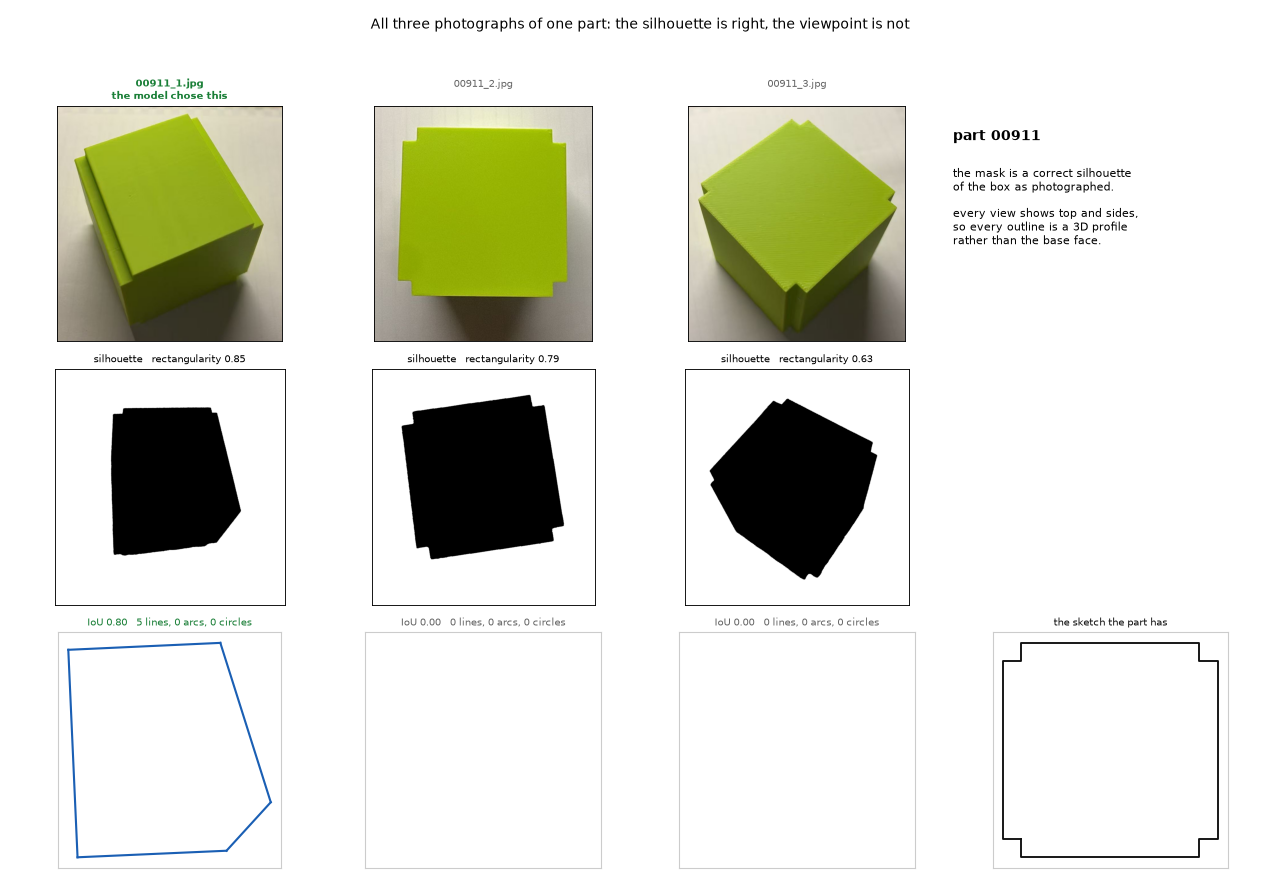
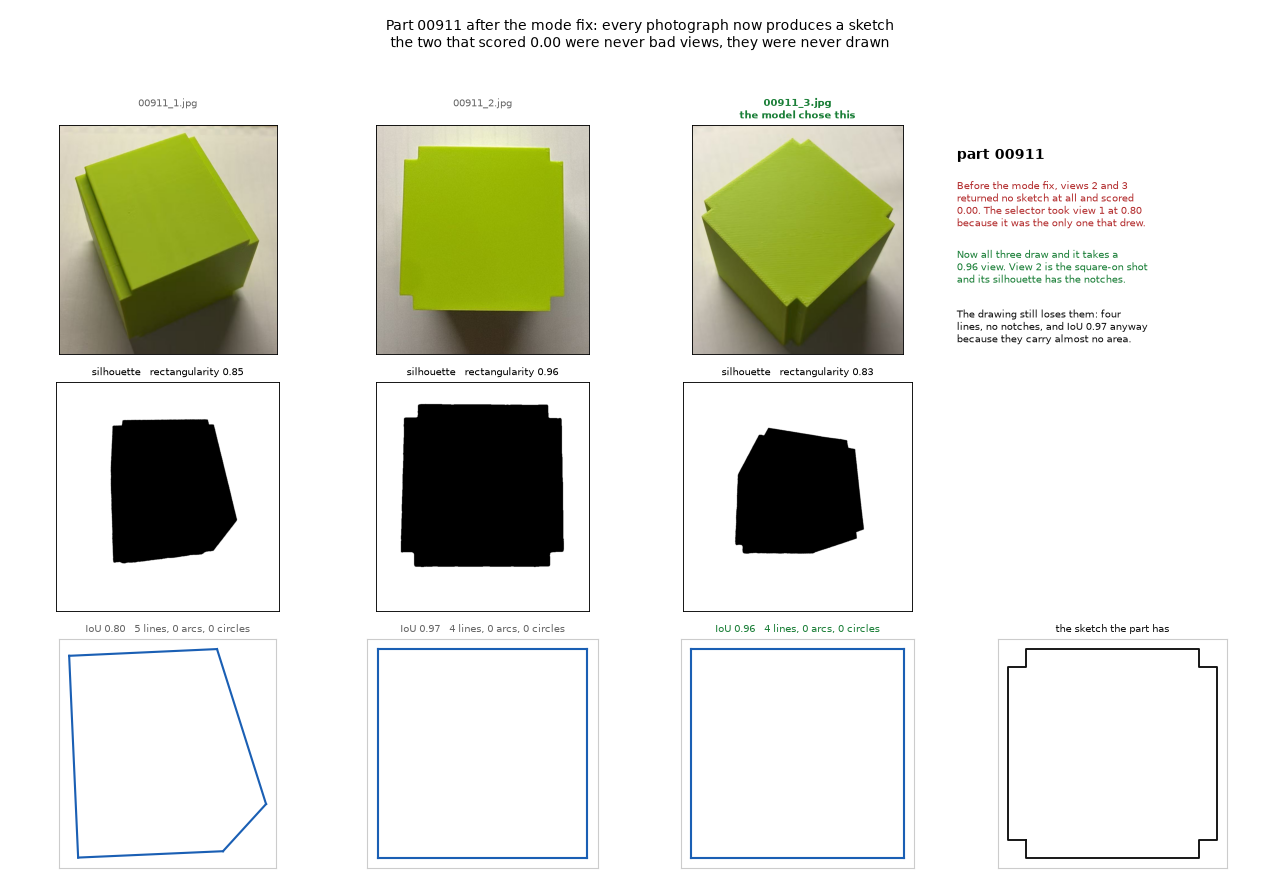
rectangularise is not what loses the notches; reverted the knobs
Part 00911's square-on photograph resolves its four corner notches and the drawing
is a plain square. rectangularise turns 8 elements into 4 there, so it looked
responsible.

Loosening it does not recover them: at fill 0.995 or a five-element cap, 00911 goes
from 4 elements to 6 against a truth of 12, and IoU falls from 0.959 to 0.933. The
tracer had already gone from 12 to 8 before the pass ran.

And the pass earns its place: over 235 discriminating parts, loosening it changes 8
of them, six for the worse, and costs 0.9 points of exact primitives for no IoU
gain. Turning a nearly-rectangular outline into an exact rectangle is right more
often than wrong.

The sweep also failed to include 00911 - it sits outside the 280 parts sampled - so
a threshold was measured on parts it barely touches. Testing the motivating part
directly is what settled it, and should have been the first step.

The deficit is upstream in corner detection: 9.43 elements against 11.88 and 1.49
curves against 5.13, which is the wall four earlier attempts already hit.

diff --git a/tools/ab_rect.py b/tools/ab_rect.py
@@ -1,0 +1,40 @@
+"""Where should rectangularise stop? It turns a notched square into a plain one."""
+import json, os, sys
+from multiprocessing import Pool
+
+import numpy as np
+
+ROOT = os.path.dirname(os.path.dirname(os.path.abspath(__file__)))
+sys.path.insert(0, os.path.join(ROOT, "src"))
+IDEAL = json.load(open(os.path.join(ROOT, "data", "printcad_ideal_sketches_all.json")))
+
+
+def one(part):
+    from photo2fcstd import analysis, bench, sketch_score as SS, spec as spec_mod
+    try:
+        views = [analysis.view(p) for p in bench.photos_of(part)[:3]]
+        doc = spec_mod.assemble(views, name=part, log=lambda *a: None)
+        s = SS.score_one(doc, IDEAL[part])
+        return part, {"iou": s["region_iou"], "trivial": s["trivial"],
+                      "exact": s["counts_mine"] == s["counts_ideal"],
+                      "n": sum(s["counts_mine"].values()), "ideal_n": sum(s["counts_ideal"].values()),
+                      "drew": bool(doc.get("outline") or doc.get("revolve"))}
+    except Exception as e:
+        return part, {"error": str(e)[:50]}
+
+
+def main(limit=280):
+    from photo2fcstd import bench, sketch_score as SS
+    parts = [p for p in sorted(IDEAL) if SS.trustworthy(IDEAL[p])]
+    parts = bench.with_photos(parts)[0][:limit]
+    with Pool(6) as pool:
+        out = dict(pool.map(one, parts))
+    tag = os.environ.get("P2F_TAG", "base")
+    json.dump(out, open(os.path.join(ROOT, "data", "ab_rect_%s.json" % tag), "w"))
+    ok = [v for v in out.values() if "iou" in v]
+    print("%s: %d parts, IoU %.3f, elements %.2f" % (tag, len(ok), np.mean([v["iou"] for v in ok]),
+                                                     np.mean([v["n"] for v in ok])))
+
+
+if __name__ == "__main__":
+    main()

diff --git a/tools/one_part_views.py b/tools/one_part_views.py
@@ -49,12 +49,20 @@ def main(part="00911"):
     ax[2, -1].axis("on")
     frame(ax[2, -1], "the sketch the part has")
     ax[0, -1].text(0.0, 0.9, "part %s" % part, fontsize=13, fontweight="bold", va="top")
-    ax[0, -1].text(0.0, 0.74,
-                   "the mask is a correct silhouette\nof the box as photographed.\n\n"
-                   "every view shows top and sides,\nso every outline is a 3D profile\n"
-                   "rather than the base face.",
-                   fontsize=9.5, va="top")
-    fig.suptitle("All three photographs of one part: the silhouette is right, the viewpoint is not",
+    ax[0, -1].text(0.0, 0.76,
+                   "Before the mode fix, views 2 and 3\nreturned no sketch at all and scored\n"
+                   "0.00. The selector took view 1 at 0.80\nbecause it was the only one that drew.",
+                   fontsize=9, va="top", color="#b32d2e")
+    ax[0, -1].text(0.0, 0.46,
+                   "Now all three draw and it takes a\n0.96 view. View 2 is the square-on shot\n"
+                   "and its silhouette has the notches.",
+                   fontsize=9, va="top", color="#1a7f37")
+    ax[0, -1].text(0.0, 0.20,
+                   "The drawing still loses them: four\nlines, no notches, and IoU 0.97 anyway\n"
+                   "because they carry almost no area.",
+                   fontsize=9, va="top", color="#111")
+    fig.suptitle("Part 00911 after the mode fix: every photograph now produces a sketch\n"
+                 "the two that scored 0.00 were never bad views, they were never drawn",
                  fontsize=12.5)
     plt.tight_layout(rect=(0, 0, 1, 0.955))
     out = os.path.join(ROOT, "docs", "figures", "one_part_views.png")

diff --git a/docs/results.md b/docs/results.md
@@ -983,6 +983,42 @@ model was trained on, -0.0012 [-0.010, +0.007], with identical agreement at 0.51
 misled the analysis and not the model, which is the more embarrassing of the two outcomes and the
 easier one to miss.
 
+## The notches are lost before regularisation, not by it
+
+Part 00911 is a square with four notched corners. The square-on photograph resolves them clearly -
+they are plainly in the mask - and the drawing is a plain four-line square. `rectangularise`
+replaces a nearly-rectangular loop with its bounding rectangle, and on this part it turns 8 elements
+into 4, so it looked like the culprit.
+
+It is not, and two measurements say so.
+
+**Loosening it does not recover the notches.** With the fill threshold at 0.995 or a cap of five
+elements, 00911 goes from 4 elements to 6 against a truth of **12**, and its IoU falls from 0.959 to
+0.933. The tracer had already lost 12 to 8 before `rectangularise` ran; the pass takes the last
+four, not the first four.
+
+**And it earns its place elsewhere.** Over 235 discriminating parts, loosening it changes 8 and
+costs 0.9 points of exact primitives:
+
+| arm | sketch IoU | exact primitives | elements |
+|---|---|---|---|
+| **shipped, fill 0.92** | **0.643** | **26%** | 9.43 |
+| fill 0.97 | 0.643 | 25% | 9.46 |
+| fill 0.995 | 0.643 | 25% | 9.47 |
+| at most 5 elements | 0.643 | 25% | 9.45 |
+| the real sketches | - | 100% | 11.88 |
+
+Of the eight parts that change, six get worse and two lose their exact-primitive match. A pass that
+turns a nearly-rectangular outline into an exact rectangle is right more often than it is wrong.
+
+**The sweep also missed the part that motivated it** - 00911 sits outside the 280 parts sampled - so
+the threshold was measured on parts it barely touches. Checking the motivating part directly is what
+showed the fix does not work, and it should have come first.
+
+The real deficit is upstream, in corner detection: 9.43 elements against 11.88, and 1.49 curves
+against 5.13. That is the same wall four attempts have already failed against, and `rectangularise`
+is not a way around it.
+
 ## The capture path runs, measured without a camera
 
 `carve.from_photos` detects the ChArUco target, solves each pose and carves. None of it had
